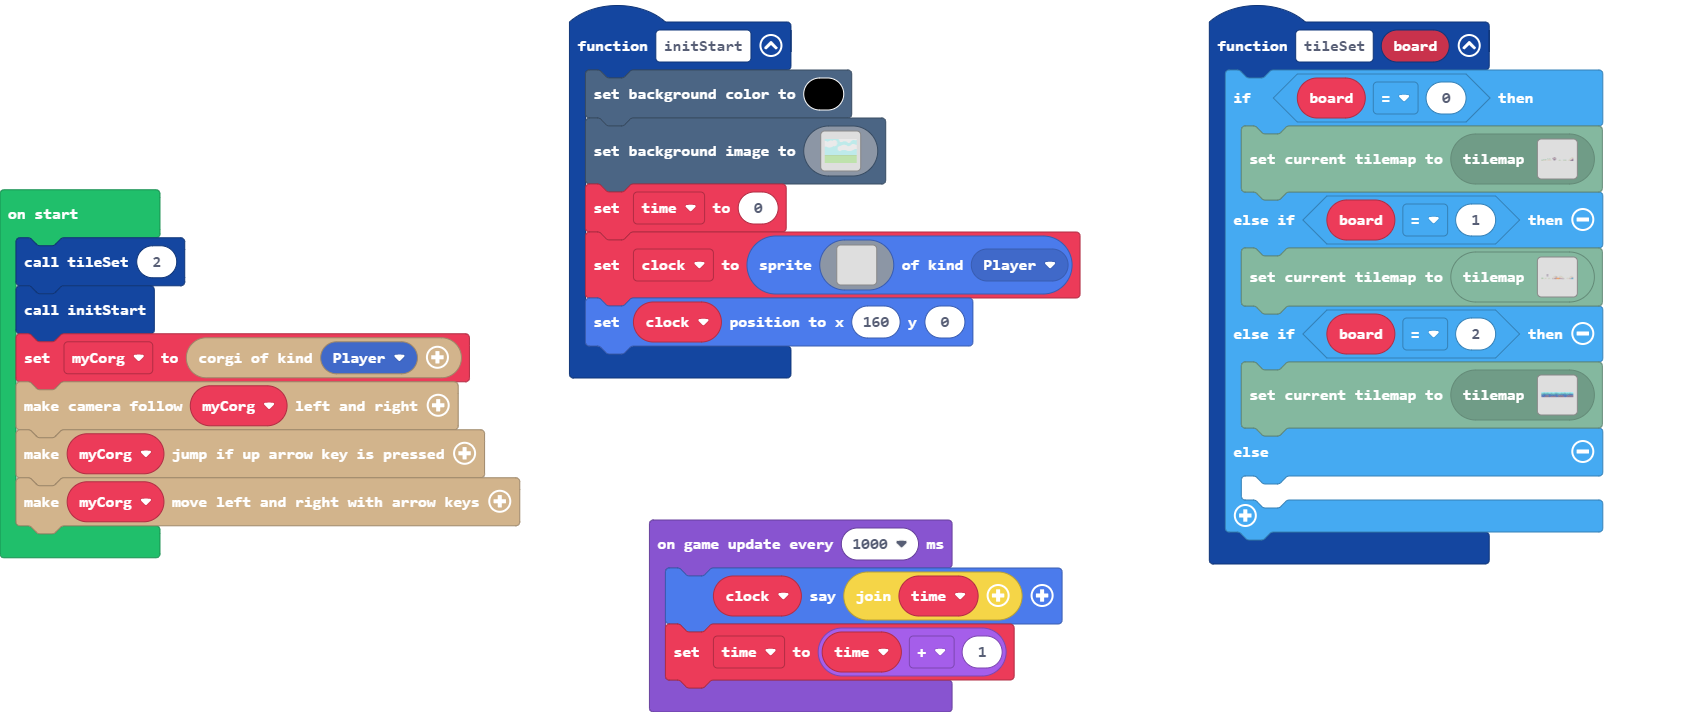
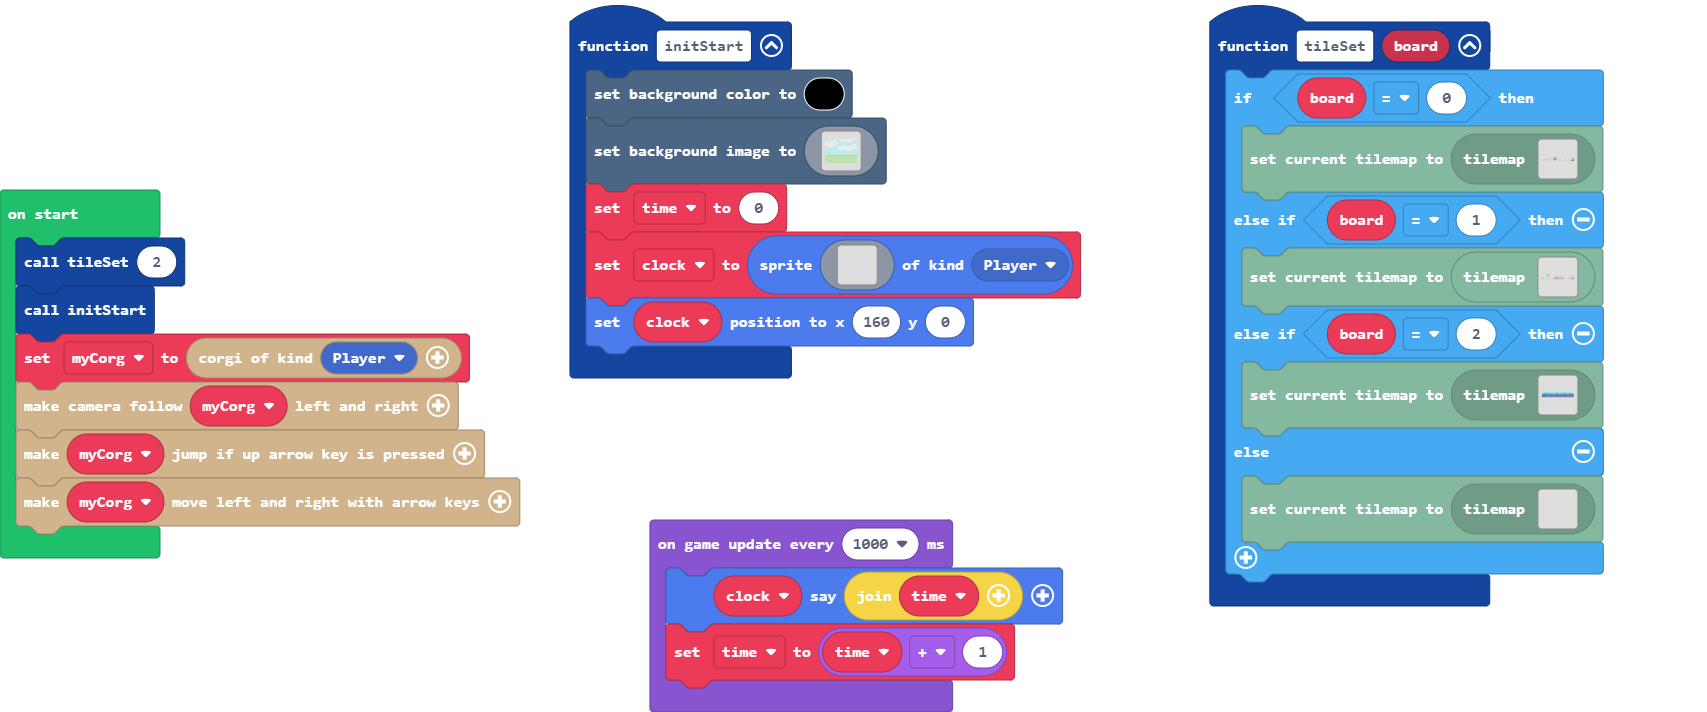
Update main.blocks, main.ts

diff --git a/main.ts b/main.ts
@@ -33,7 +33,16 @@ function tileSet (board: number) {
             22...2222222..222222222...2222222222...22222222222
             `, [myTiles.transparency16,myTiles.tile2,myTiles.tile3,myTiles.tile4,myTiles.tile5,myTiles.tile6,sprites.builtin.oceanSand8,sprites.dungeon.darkGroundCenter,myTiles.tile7], TileScale.Sixteen)))
     } else {
-    	
+        tiles.loadMap(tiles.createMap(tiles.createTilemap(hex`3200080000000000000000000000000000000000000000000000000000000000000000000000000000000000000000000000000000000000000000000000000000000000000000000000000000000000000000000000000000000000000000000000000000000000000000000000000000000000000000000000000000000000000000000000000000000000000000000000000000000000000000000000000000000000000000000000000000000000000000000000000000000000000000000000000000000000000000000000000000000000000000000000000000000000000000000000000000000000000000000000000000000000000000000000000000000000000000000000000000000000000000000000000000000000000000000000000000000000000000000000000000000000000000000000000000000000000000000000000000000000000000000000000000000000000000000000000000000000000000000000000000000000000000000000000000000000000000000000000000000000000000000000000000000000`, img`
+            ..................................................
+            ..................................................
+            ..................................................
+            ..................................................
+            ..................................................
+            ..................................................
+            ..................................................
+            ..................................................
+            `, [myTiles.transparency16], TileScale.Sixteen)))
     }
 }
 function initStart () {
